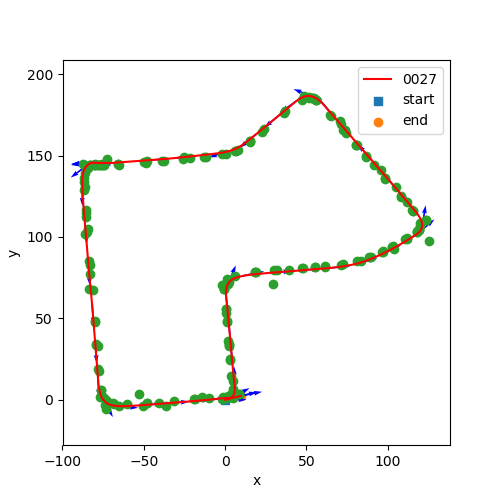
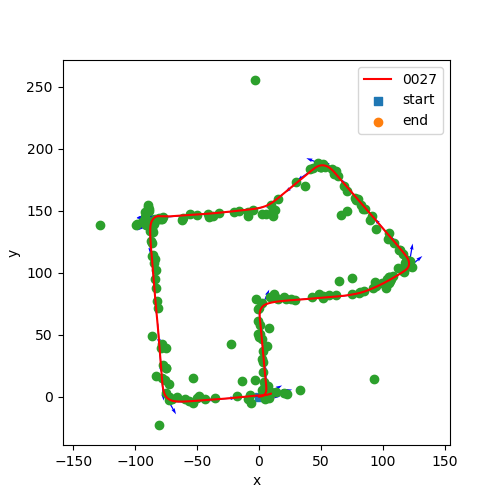
Improvements

diff --git a/EKF.py b/EKF.py
@@ -127,7 +127,7 @@ class Landmark:
 			oTi:
 		'''
 		if not self.observed:
-			v = np.dot(z,np.linalg.inv(self.M))
+			v = np.dot(np.linalg.pinv(self.M),z)
 			v = v/v[3]
 			self._mu = np.dot(np.linalg.pinv(np.dot(self.oTi,pose)),v)
 			self.observed = True
@@ -136,7 +136,7 @@ class Landmark:
 			z_hat = np.dot(self.M,pi_q(projection))
 
 			H = np.dot(np.dot(self.M,dpi_dq(projection)),np.dot(np.dot(self.oTi,pose),self.D))
-			K = np.dot(np.dot(self._sigma,H.T),np.linalg.inv(np.dot(np.dot(H,self._sigma),H.T) + np.random.randn(4,4)))/100
+			K = np.dot(np.dot(self._sigma,H.T),np.linalg.inv(np.dot(np.dot(H,self._sigma),H.T) + 0.0005*np.eye(4)))
 			self._mu = self._mu + np.dot(np.dot(self.D,K),(z - z_hat))
 			self._sigma = np.dot(np.eye(3) - np.dot(K,H),self._sigma)
 

diff --git a/hw3_main.py b/hw3_main.py
@@ -13,7 +13,7 @@ from EKF import MotionModel,Landmark,invert_pose
 
 
 if __name__ == '__main__':
-	filename = "./data/0042.npz"
+	filename = "./data/0027.npz"
 	t,features,linear_velocity,rotational_velocity,K,b,cam_T_imu = load_data(filename)
 	sensor_stream = Sensor(t,linear_velocity,rotational_velocity)
 	camera_stream = Camera(features,cam_T_imu,K,b)
